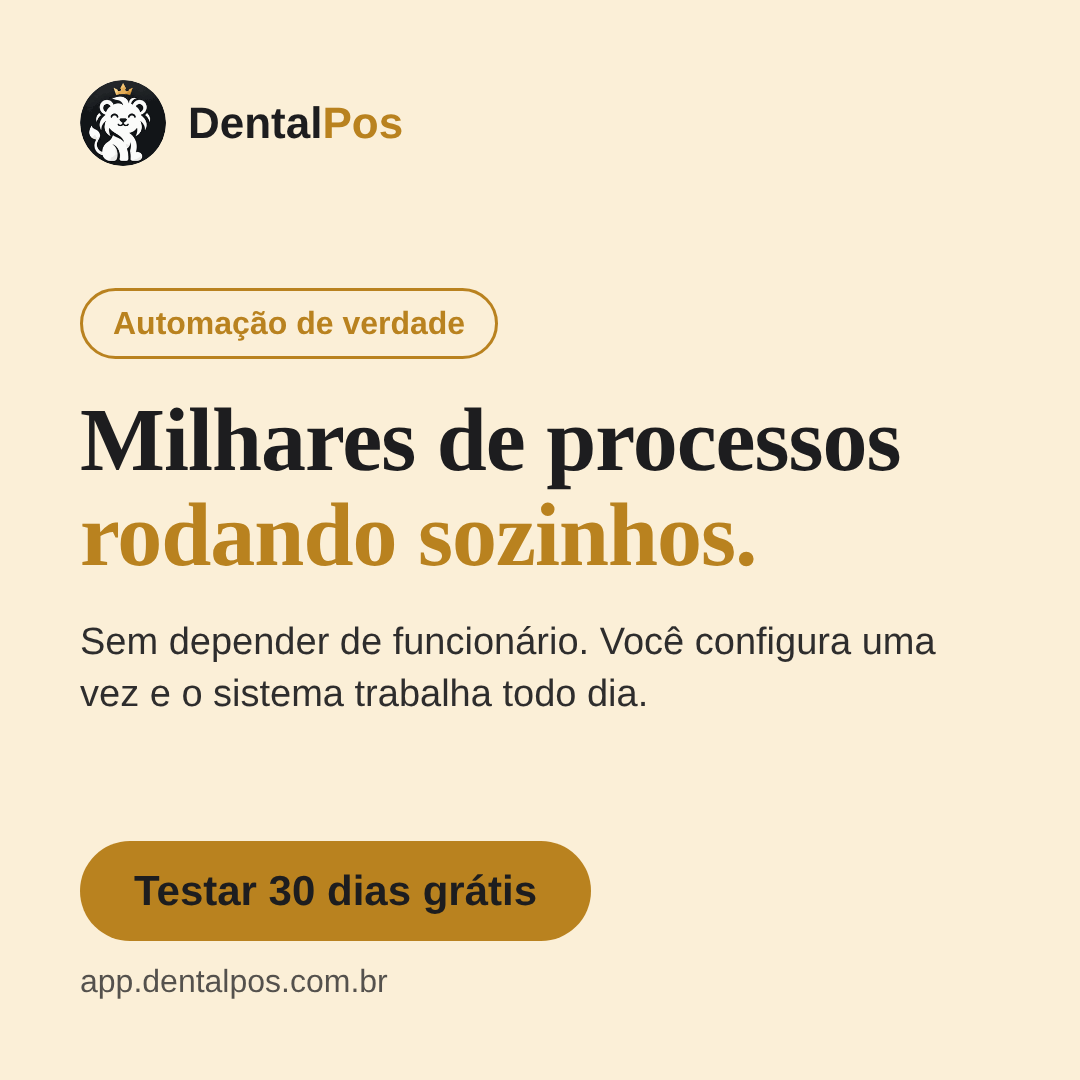
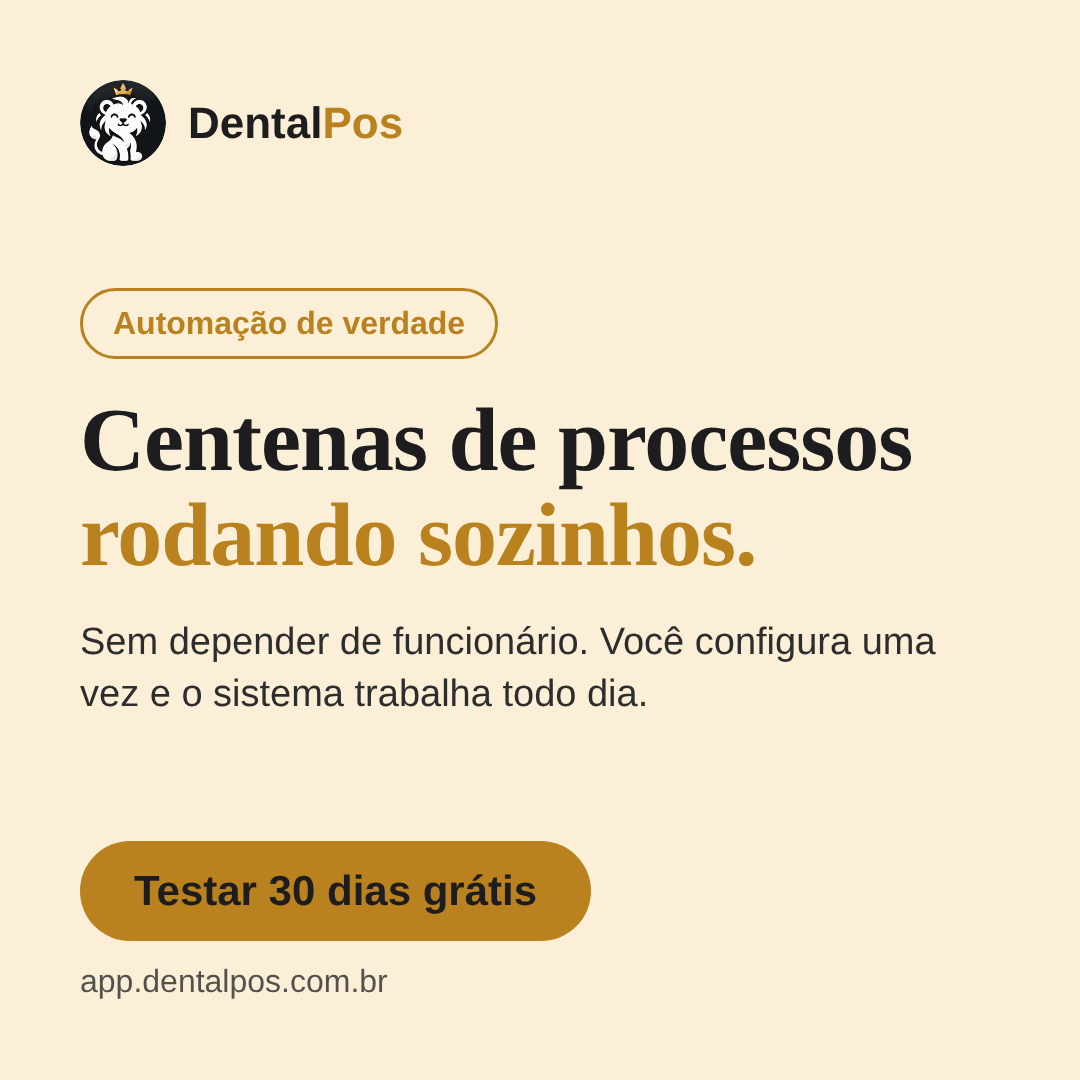
Campanha Black Friday: trocar milhares por centenas de processos
Claude-Session: https://claude.ai/code/session_01PyjgZWUpqGvUPRA2o8Lgfg

Changed region(s): [[0.0611, 0.3667, 0.8556, 0.4583]]

diff --git a/marketing/black-friday/CAMPANHA-BLACK-FRIDAY.md b/marketing/black-friday/CAMPANHA-BLACK-FRIDAY.md
@@ -7,7 +7,7 @@
 
 ## Conferir antes de colocar no ar
 1. O cadastro precisa realmente dar **30 dias** e aplicar **50% por 12 meses**. O CLAUDE.md do repositório diz 60 dias grátis na promoção de lançamento. Se o sistema continuar dando 60, o anúncio promete menos do que entrega (pode, mas confirme).
-2. "Milhares de processos automatizados": confirme o número que você quer sustentar. Os textos dizem "milhares", sem número exato.
+2. "Centenas de processos automatizados": confirme o número que você quer sustentar. Os textos dizem "centenas", sem número exato.
 3. Texto de oferta é comunicação comercial. Mostre à Dra. Roberta se quiser validar as regras do desconto (quem é elegível, o que acontece no mês 13).
 
 ## Gravuras (pasta `marketing/black-friday/`)
@@ -16,7 +16,7 @@ Feed/Instagram/Facebook = `*-feed.png` (1080×1080). Stories, Reels e TikTok = `
 | Nº | Arquivo | Mensagem |
 |---|---|---|
 | 1 | `01-oferta` | 30 dias grátis e 50% off por 12 meses |
-| 2 | `02-automatico` | Milhares de processos rodando sozinhos |
+| 2 | `02-automatico` | Centenas de processos rodando sozinhos |
 | 3 | `03-whatsapp` | Use o WhatsApp do seu consultório |
 | 4 | `04-documentos` | Papelaria e documentos inclusos |
 | 5 | `05-migracao` | Migração automática simples |
@@ -52,7 +52,7 @@ Válido até 30/11. Teste agora.
 ```
 Quantas tarefas da sua clínica dependem de alguém lembrar de fazer?
 
-No DentalPos, milhares de processos rodam sozinhos: lembrete de consulta, aviso de retorno, cobrança de atraso, relatórios. Você só configura uma vez.
+No DentalPos, centenas de processos rodam sozinhos: lembrete de consulta, aviso de retorno, cobrança de atraso, relatórios. Você só configura uma vez.
 
 Menos dependência de funcionário. Mais tempo para atender.
 
@@ -146,7 +146,7 @@ Oferta até 30/11
 ## Descrições (máx. 90 caracteres)
 ```
 30 dias grátis e 50% de desconto por 12 meses. Migre seus dados sem digitar nada.
-Milhares de processos automáticos. Configure uma vez e o sistema trabalha por você.
+Centenas de processos automáticos. Configure uma vez e o sistema trabalha por você.
 WhatsApp do seu consultório, receitas e documentos inclusos. Sem custo por documento.
 Teste sem cartão de crédito. Cancele quando quiser. Black Friday até 30/11.
 ```
@@ -175,7 +175,7 @@ Teste sem cartão de crédito. Cancele quando quiser. Black Friday até 30/11.
 **Vídeo 1 — "Funcionário faltou?"** (gancho de automação)
 - 0–3 s (fala): "Funcionário faltou e a agenda virou bagunça?"
 - 3–12 s (tela): lembretes, confirmações e retornos saindo sozinhos.
-- 12–20 s: "No DentalPos milhares de processos rodam sozinhos. Você só configura."
+- 12–20 s: "No DentalPos centenas de processos rodam sozinhos. Você só configura."
 - 20–25 s: "30 dias grátis e 50% off por 12 meses. Link na bio."
 
 **Vídeo 2 — "Seu número no WhatsApp"**
@@ -212,7 +212,7 @@ Olá, Dr(a). {nome}! Aqui é do DentalPos.
 
 Na Black Friday liberamos 30 dias grátis, sem cartão, e 50% de desconto nos 12 meses seguintes.
 
-✔ Milhares de processos automáticos, sem depender de funcionário
+✔ Centenas de processos automáticos, sem depender de funcionário
 ✔ Use o WhatsApp do seu consultório
 ✔ Papelaria e documentos inclusos
 ✔ Migração automática do seu sistema atual
